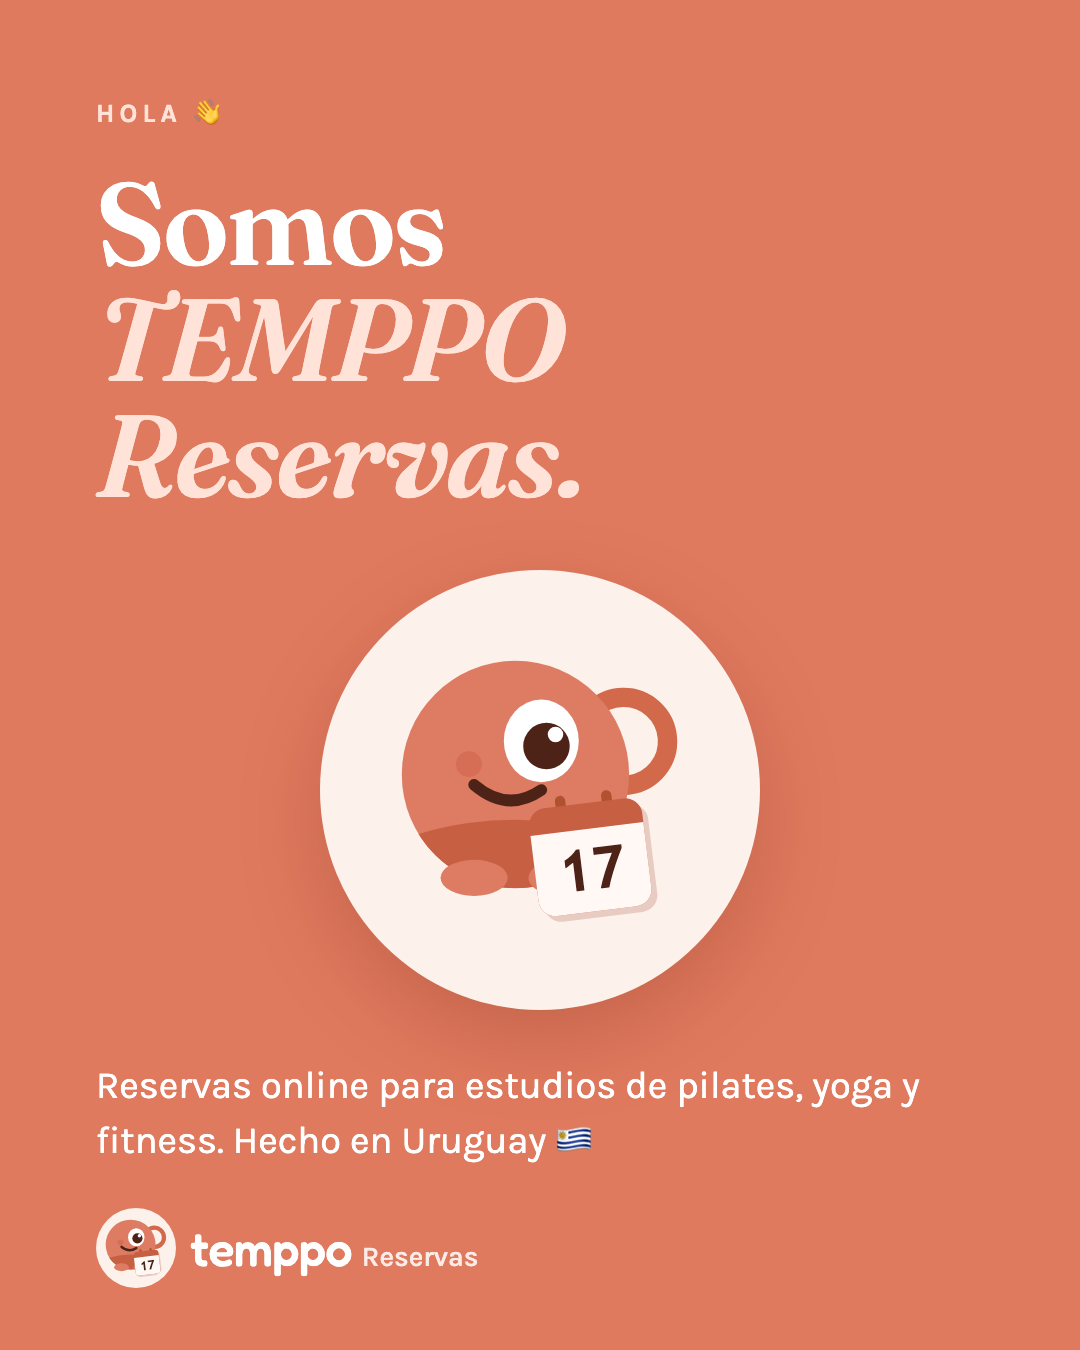
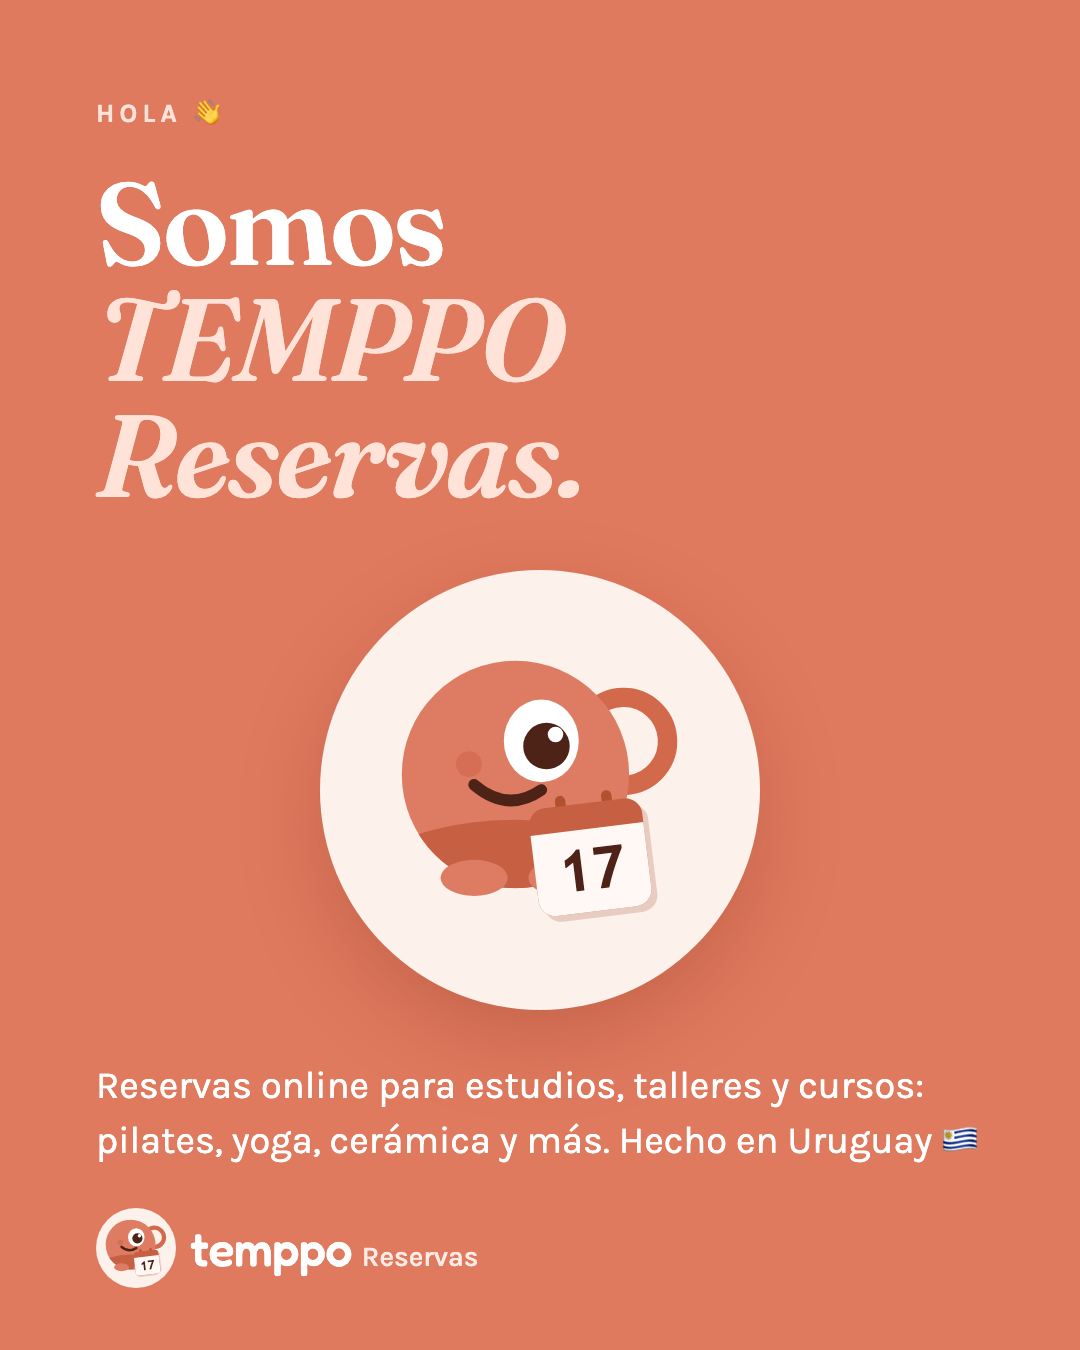
Speak to every class-based business, not only pilates and yoga

Changed region(s): [[0.0917, 0.7778, 0.9167, 0.8711]]

diff --git a/marketing/instagram/reservas/feed.html b/marketing/instagram/reservas/feed.html
@@ -286,7 +286,7 @@
     <p class="eyebrow">Hola 👋</p>
     <h1 class="headline">Somos<br><em>TEMPPO Reservas.</em></h1>
     <div class="big"><img src="mascota-temppo.svg?hi" alt=""></div>
-    <p class="body">Reservas online para estudios de pilates, yoga y fitness. Hecho en Uruguay 🇺🇾</p>
+    <p class="body">Reservas online para estudios, talleres y cursos: pilates, yoga, cerámica y más. Hecho en Uruguay 🇺🇾</p>
     <div class="footer"><span class="brand white" data-brand></span></div>
   </section>
 
@@ -307,8 +307,8 @@
   <!-- Presentación · 3 -->
   <section class="post who" id="intro-para-quien">
     <p class="eyebrow">Para quién</p>
-    <h1 class="headline">Para estudios <em>que trabajan con clases.</em></h1>
-    <div class="tags"><span>Pilates</span><span>Reformer</span><span>Yoga</span><span>Funcional</span><span>Fitness</span></div>
+    <h1 class="headline">Para todo lo que <em>se da en clases.</em></h1>
+    <div class="tags"><span>Pilates</span><span>Yoga</span><span>Funcional</span><span>Danza</span><span>Cerámica</span><span>Talleres</span><span>Cursos</span></div>
     <div class="cta">
       <h2>Probalo gratis <em>30 días.</em></h2>
       <span class="pill">reservas.temppo.uy</span>

diff --git a/marketing/contenido/reservas-noviembre.md b/marketing/contenido/reservas-noviembre.md
@@ -60,7 +60,7 @@ Lo que sigue: dos reels con pantallas reales de la app de clases (una alumna que
 - Foto: `instagram/reservas/perfil-temppo-reservas.png`
 - Nombre: TEMPPO Reservas
 - Bio:
-  > Reservas online para estudios de pilates, yoga y fitness 🧘♀
+  > Reservas online para estudios, talleres y cursos 🧘♀🏺
   > Cupos, lista de espera, packs y pagos, sin WhatsApp de por medio
   > Un producto de @temppo.uy
 - Link: reservas.temppo.uy
@@ -86,13 +86,13 @@ Se suben en este orden, así en la grilla quedan de izquierda a derecha: hola, q
 
 > Hola 👋 Somos TEMPPO Reservas.
 >
-> Hacemos un sistema de reservas online para estudios de pilates, yoga y fitness, para que tus alumnas reserven solas y vos dejes de coordinar todo por WhatsApp.
+> Hacemos un sistema de reservas online para estudios, talleres y cursos (pilates, yoga, cerámica, danza y más), para que tus alumnas reserven solas y vos dejes de coordinar todo por WhatsApp.
 >
 > Lo hacemos en Uruguay 🇺🇾, de la mano de @temppo.uy.
 >
 > Seguinos para ver cómo funciona por dentro 👀
 >
-> #pilates #yoga #estudiodepilates #montevideo #uruguay #emprendedoras
+> #pilates #yoga #ceramica #talleres #cursos #montevideo #uruguay #emprendedoras
 
 ### 2 · Qué hace (`instagram/reservas/intro-que-hace.png`)
 
@@ -110,10 +110,10 @@ Se suben en este orden, así en la grilla quedan de izquierda a derecha: hola, q
 
 ### 3 · Para quién (`instagram/reservas/intro-para-quien.png`)
 
-> ¿Tenés un estudio de pilates, reformer, yoga o funcional? Esto es para vos 🧘♀
+> ¿Das clases de pilates, yoga, funcional, danza o cerámica? ¿Tenés talleres o cursos con cupo? Esto es para vos 🙌
 >
 > Probá TEMPPO Reservas gratis durante 30 días, sin tarjeta. Lo configurás en una tarde y tus alumnas empiezan a reservar solas.
 >
 > 👉 reservas.temppo.uy (link en la bio)
 >
-> #pilates #pilatesuruguay #yoga #funcional #estudiodepilates #montevideo
+> #pilates #yoga #funcional #danza #ceramica #talleres #cursos #montevideo
